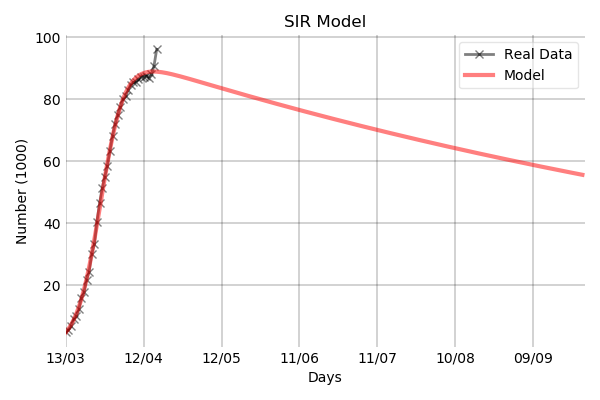
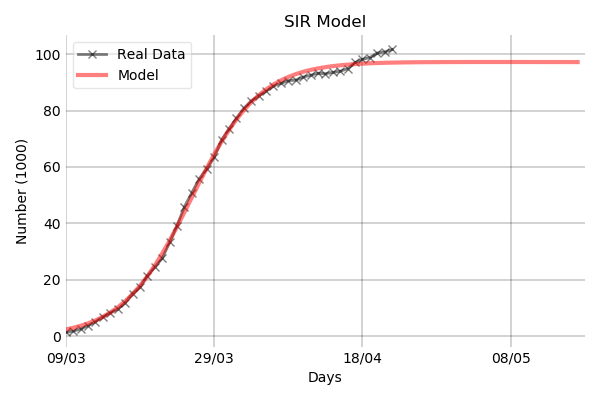
Added support for more general data sources

Changed region(s): [[0.06, 0.06, 0.99, 0.93], [0.21, 0.81, 0.27, 0.93]]

diff --git a/tests.py b/tests.py
@@ -1,26 +1,27 @@
 import covid19
 import numpy as np
-from models import sir_model, logistic_model, exponential_model
-import pandas as pd
+from models import sir_model, logistic_model
 
-# Read Data from CSSEGISandData's GitHub Repository
-data = covid19.get_data('https://raw.githubusercontent.com/datasets/covid-19/master/data/countries-aggregated.csv')
-today_data = [172541, 18056, 67504]
+# Get data From ISCIII website
+data = covid19.get_data('https://covid19.isciii.es/resources/serie_historica_acumulados.csv', drop_last=5,
+                        date_label='FECHA', country_label='CCAA', confirmed_label='CASOS',
+                        deaths_label='Fallecidos', recovered_label='Recuperados', dayfirst=True)
 
-# Append the last minute data manually to the -csv data
-confirmed, deaths, active = covid19.clean_data(data, 'Spain', threshold=[2500, 5000, 2500], lastminute=None)
-print(deaths.reset_index())
+# Clean all the data with some Threshold to remove the first days of wrong data
+confirmed, deaths, active = covid19.clean_data(data, None, threshold=[1000, 1, 1000])
+print('Last Update: ', confirmed.index.max())
 
-# # Compare between different countries
-countries_to_compare = ['Spain', 'Italy', 'France', 'Germany', 'US']
-covid19.compare(data, countries_to_compare, 'figures\\compare.png', threshold=[1000, 250, 1000])
+# Fit the SIR Model
+covid19.fit(active,  sir_model, [0, 0, 1, 0, -np.inf], [np.inf, np.inf, np.inf, np.inf, np.inf],
+            [1, 2.5, 15, 1E6, 0], title='SIR Model', tmax=70, days_range=20)
 
-# SIR Model
-sol = covid19.fit(active,  sir_model, [0, 0, 1, 0, -np.inf], [np.inf, np.inf, np.inf, np.inf, np.inf],
-                  [1, 1.5, 5E5, 1E8, 0], title='SIR Model', tmax=200, days_range=30)
-
-# Logistic Model
+# Fit the Logistic Model for confirmed cases
 covid19.fit(confirmed,  logistic_model, [0, 0, 0], [np.inf, np.inf, np.inf], [1, 1, 1],
-            title='Logistic Model Confirmed', tmax=100)
-covid19.fit(deaths,  logistic_model, [-np.inf, -np.inf, -np.inf], [np.inf, np.inf, np.inf], [1, 1, 1E5],
-            title='Logistic Model Deaths', tmax=100, scale=1)
+            title='Logistic Model Confirmed', tmax=70, days_range=20)
+
+# Fit the Logistic Model for deaths
+covid19.fit(deaths,  logistic_model, [-np.inf, -np.inf, -np.inf], [np.inf, np.inf, np.inf], [1, 1, 1],
+            title='Logistic Model Deaths', tmax=70, scale=1, days_range=20)
+
+# Compare all regions
+covid19.compare(data, data['Country'].drop_duplicates().values, 'figures\\compare.png')

diff --git a/covid19.py b/covid19.py
@@ -4,7 +4,8 @@ import matplotlib.pyplot as plt
 from scipy import optimize
 
 
-def get_data(csv_route):
+def get_data(csv_route, date_label='Date', country_label='Country', confirmed_label='Confirmed',
+             deaths_label='Deaths', recovered_label='Recovered', drop_first=0, drop_last=0, dayfirst=False):
 
     """ Get the data from a .csv file. This .csv file must contain a time series with
         data for each date in one column, and must contain a 'Country' column.
@@ -12,10 +13,21 @@ def get_data(csv_route):
         an example of the time series format. Returns a pandas.DataFrame object.
 
         Parameters:
-        - csv_route : (str) Location to the .csv file (can be a local folder or an URL)"""
+        - csv_route : (str) Location to the .csv file (can be a local folder or an URL)
+        - date_label : (str) Name of the date column in the provided CSV file (Default 'Date')
+        - country_label : (str) Name of the country (or state) column in the provided CSV file (Default 'Country')
+        - confirmed_label : (str) Name of the confirmed cases column in the provided CSV file (Default 'Confirmed')
+        - deaths_label : (str) Name of the deaths column in the provided CSV file (Default 'Deaths')
+        - recovered_label : (str) Name of the recovered column in the provided CSV file (Default ('Recovered')
+        - drop_first : (int) Number of first lines to drop (Default 0)
+        - drop_last : (int) Number of last lines to drop (Default 0)
+        - dayfirst : (bool) True if date has the day before month (Default False)
+        """
 
-    df = pd.read_csv(csv_route).dropna()  # Pandas function to read the .csv file
-    df['Date'] = pd.to_datetime(df['Date'])  # Converts date strings to timestamp
+    df = pd.read_csv(csv_route, skiprows=drop_first, skipfooter=drop_last, engine='python').fillna(0) # Read the CSV
+    df = df.rename({date_label: 'Date', country_label: 'Country', confirmed_label: 'Confirmed',
+                    deaths_label: 'Deaths', recovered_label: 'Recovered'}, axis=1) # Rename using labels provided
+    df['Date'] = pd.to_datetime(df['Date'], dayfirst=dayfirst)  # Converts date strings to timestamp
     return df
 
 
